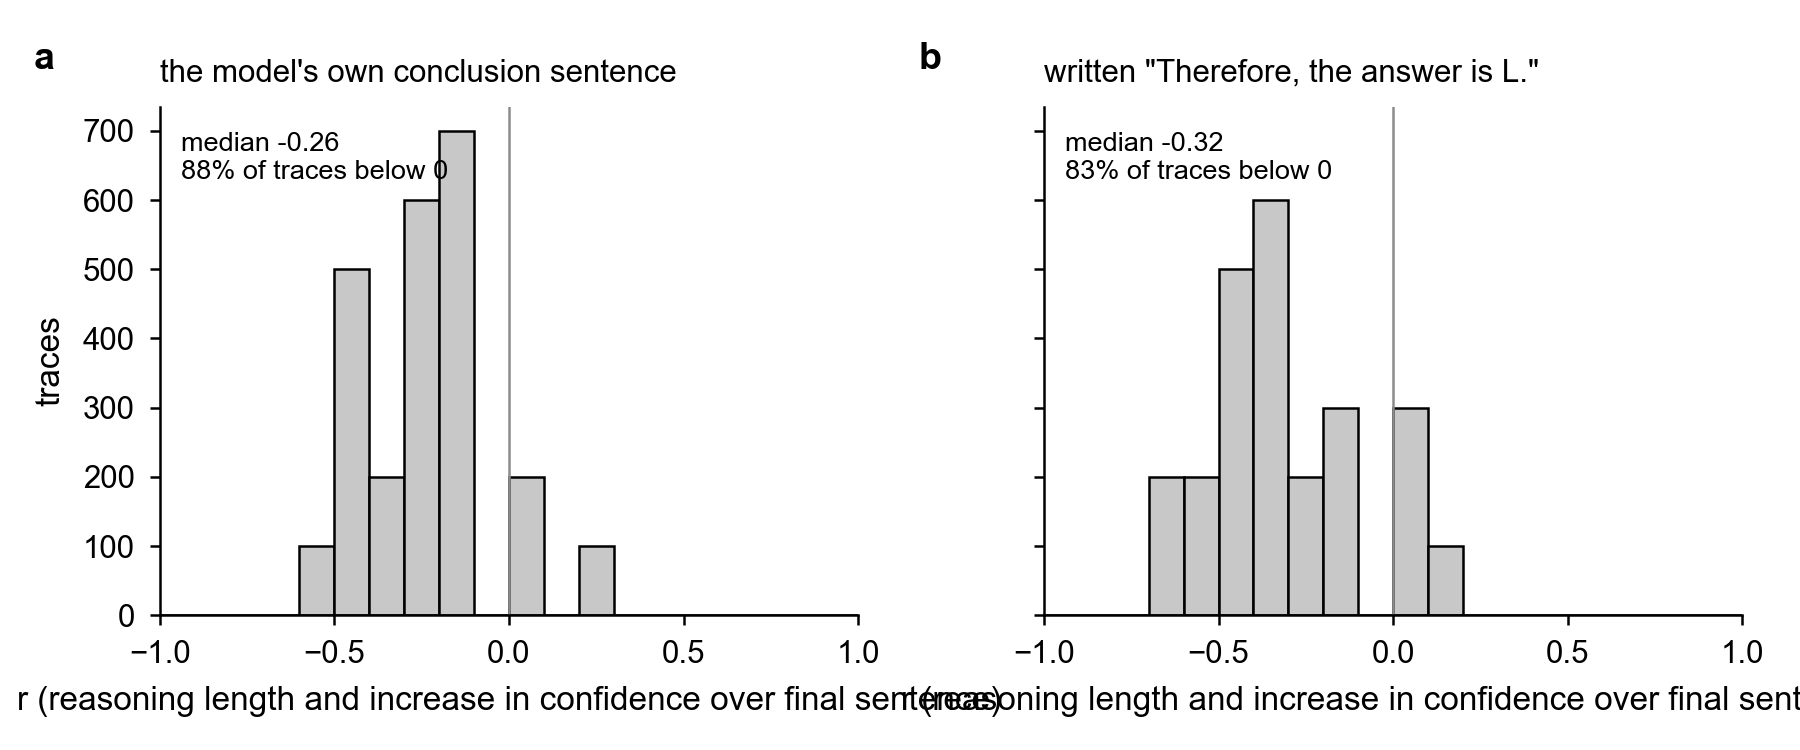
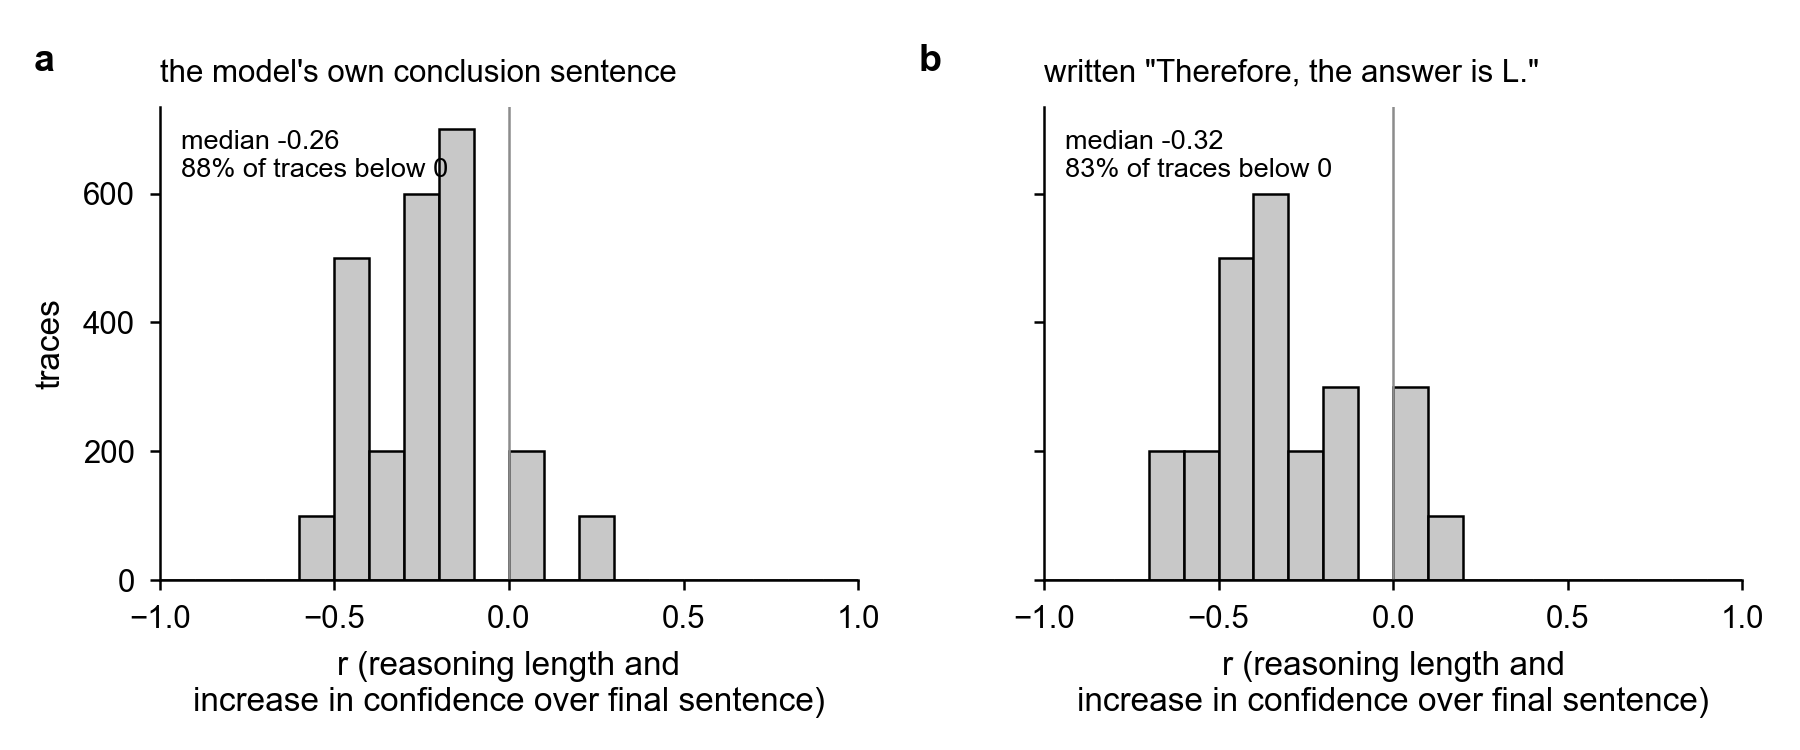
Figure 3: x-axis label on two lines

diff --git a/src/paper_figures.py b/src/paper_figures.py
@@ -816,7 +816,7 @@ def jump_length_hist() -> None:
             v = v.rho
             ax.axvline(0, color=MID, lw=0.6)
             ax.set_xlim(-1, 1)
-            ax.set_xlabel("r (reasoning length and increase in confidence over final sentence)")
+            ax.set_xlabel("r (reasoning length and\nincrease in confidence over final sentence)")
             ax.set_title(lab, fontsize=7.5, loc="left")
             ax.text(0.03, 0.95, f"median {v.median():+.2f}\n{(v < 0).mean():.0%} of traces below 0", transform=ax.transAxes, fontsize=6.5, va="top")
         axes[0].set_ylabel("traces")
